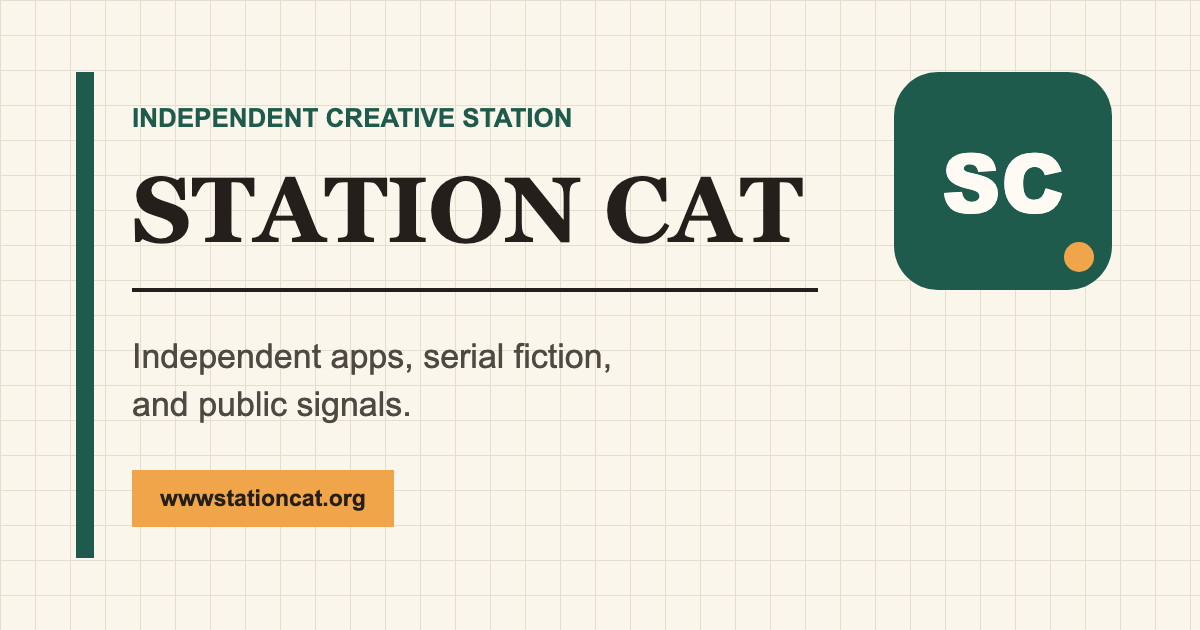
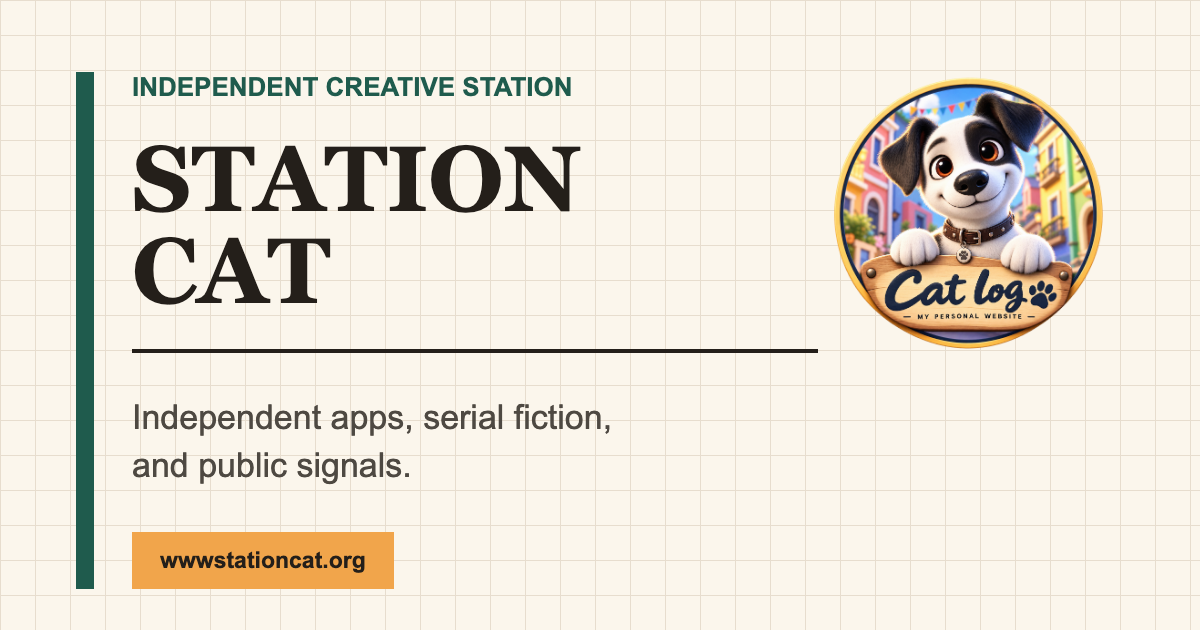
Update Station Cat brand identity

diff --git a/src/worker.js b/src/worker.js
@@ -19311,6 +19311,7 @@ const dynamicLibraryPathForLocale = (locale) =>
       : locale === 'zh-Hans'
         ? '/zh-hans/library/'
         : '/zh-hant/library/';
+const STATION_X_URL = 'https://x.com/statiocat';
 
 const absoluteStationUrl = (path) => {
   const value = cleanText(path, 1000);
@@ -19344,7 +19345,7 @@ const dynamicHtmlShell = ({ body, canonicalPath, description, lang, ogImage = ''
             <a href="${escapeHtml(appsPath)}">${escapeHtml(navCopy.apps)}</a>
             <a href="${escapeHtml(libraryPath)}">${escapeHtml(navCopy.member)}</a>
             <a href="/about/">About</a>
-            <a class="signal-station-nav__x" href="https://x.com/bketck">↗ X</a>
+            <a class="signal-station-nav__x" href="${STATION_X_URL}">↗ X</a>
           </nav>
         </div>
       </header>`
@@ -19356,7 +19357,7 @@ const dynamicHtmlShell = ({ body, canonicalPath, description, lang, ogImage = ''
           <a href="${escapeHtml(appsPath)}">${escapeHtml(navCopy.apps)}</a>
           <a href="${escapeHtml(libraryPath)}">${escapeHtml(navCopy.member)}</a>
           <a href="/about/">About</a>
-          <a href="https://x.com/bketck">Follow on X</a>
+          <a href="${STATION_X_URL}">Follow on X</a>
         </nav>
       </header>`;
   const signalFooter = isSignalPage
@@ -19399,7 +19400,8 @@ const dynamicHtmlShell = ({ body, canonicalPath, description, lang, ogImage = ''
     ${ogImageUrl ? `<meta name="twitter:image" content="${escapeHtml(ogImageUrl)}">` : ''}
     ${ogImageUrl ? `<meta name="twitter:image:src" content="${escapeHtml(ogImageUrl)}">` : ''}
     ${ogImageUrl ? `<meta name="twitter:image:alt" content="${escapeHtml(title)}">` : ''}
-    <link rel="icon" href="/favicon.svg" type="image/svg+xml">
+    <link rel="icon" href="/favicon.ico" sizes="any">
+    <link rel="icon" href="/favicon-64.png" type="image/png" sizes="64x64">
     ${structuredDataScripts}
     <style>
       :root { color-scheme: light; --bg: #fffaf4; --surface: #ffffff; --soft: #f5efe7; --ink: #1f2d29; --muted: #64736d; --line: #e4dbd0; --teal: #08796d; --coral: #d95d45; }

diff --git a/src/data/navigation.ts b/src/data/navigation.ts
@@ -1,3 +1,5 @@
+import { siteConfig } from './site';
+
 export const brandNavigation = [
   { label: 'Apps', href: '/en/apps/' },
   { label: 'Game', href: '/en/apps/cat-life-game/' },
@@ -6,7 +8,7 @@ export const brandNavigation = [
   { label: 'Signal', href: '/en/signal/' },
   { label: 'Member Login', href: '/en/library/' },
   { label: 'About', href: '/about/', mobileHidden: true },
-  { label: 'Follow on X', href: 'https://x.com/bketck', mobileHidden: true }
+  { label: 'Follow on X', href: siteConfig.xUrl, mobileHidden: true }
 ];
 
 export const zhBrandNavigation = [
@@ -17,7 +19,7 @@ export const zhBrandNavigation = [
   { label: '信號簡報', href: '/signal/' },
   { label: '會員登入', href: '/zh-hant/library/' },
   { label: 'About', href: '/about/', mobileHidden: true },
-  { label: 'Follow on X', href: 'https://x.com/bketck', mobileHidden: true }
+  { label: 'Follow on X', href: siteConfig.xUrl, mobileHidden: true }
 ];
 
 export const zhHansBrandNavigation = [
@@ -28,7 +30,7 @@ export const zhHansBrandNavigation = [
   { label: '信号简报', href: '/zh-hans/signal/' },
   { label: '会员登录', href: '/zh-hans/library/' },
   { label: 'About', href: '/about/', mobileHidden: true },
-  { label: 'Follow on X', href: 'https://x.com/bketck', mobileHidden: true }
+  { label: 'Follow on X', href: siteConfig.xUrl, mobileHidden: true }
 ];
 
 export const jaBrandNavigation = [
@@ -39,7 +41,7 @@ export const jaBrandNavigation = [
   { label: 'Signal', href: '/ja/signal/' },
   { label: '会員ログイン', href: '/ja/library/' },
   { label: 'About', href: '/about/', mobileHidden: true },
-  { label: 'Follow on X', href: 'https://x.com/bketck', mobileHidden: true }
+  { label: 'Follow on X', href: siteConfig.xUrl, mobileHidden: true }
 ];
 
 export const productNavigation = [

diff --git a/scripts/assets/station-cat-og.html b/scripts/assets/station-cat-og.html
@@ -19,7 +19,7 @@
       main {
         align-items: center;
         display: grid;
-        grid-template-columns: 18px minmax(0, 1fr) 218px;
+        grid-template-columns: 18px minmax(0, 1fr) 286px;
         gap: 38px;
         height: 100%;
         padding: 72px 88px 72px 76px;
@@ -30,16 +30,7 @@
       .rule { background: #241f1a; height: 4px; margin: 32px 0 40px; width: 686px; }
       .description { color: #4e4942; font-size: 34px; line-height: 1.42; margin: 0; }
       .url { background: #f1a54b; display: inline-block; font-size: 23px; font-weight: 700; margin-top: 42px; padding: 15px 28px; }
-      .mark {
-        align-self: start;
-        background: #1f5b4d;
-        border-radius: 44px;
-        height: 218px;
-        position: relative;
-        width: 218px;
-      }
-      .mark::after { background: #f1a54b; border-radius: 50%; bottom: 18px; content: ''; height: 30px; position: absolute; right: 18px; width: 30px; }
-      .letters { color: #fffaf4; display: flex; font-family: Arial Black, Arial, sans-serif; font-size: 82px; font-weight: 900; gap: 4px; justify-content: center; line-height: 218px; }
+      .mark { align-self: start; display: block; height: 286px; object-fit: contain; width: 286px; }
     </style>
   </head>
   <body>
@@ -52,7 +43,7 @@
         <p class="description">Independent apps, serial fiction,<br>and public signals.</p>
         <div class="url">wwwstationcat.org</div>
       </section>
-      <div class="mark" aria-hidden="true"><span class="letters">SC</span></div>
+      <img class="mark" src="./station-cat-logo.png" alt="">
     </main>
   </body>
 </html>

diff --git a/src/styles/global.css b/src/styles/global.css
@@ -2136,7 +2136,15 @@ ol {
   font-size: 13px;
   height: 34px;
   justify-content: center;
+  overflow: hidden;
   width: 34px;
+}
+
+.brand-icon img {
+  display: block;
+  height: 100%;
+  object-fit: contain;
+  width: 100%;
 }
 
 .nav-links,
@@ -5460,7 +5468,7 @@ button.button {
 }
 
 .station-logo-lockup img {
-  background: #221b16;
+  background: transparent;
   border: 2px solid #221b16;
   border-radius: 50%;
   height: 88px;
@@ -8654,6 +8662,10 @@ body.station-paper-page.caption-product-page {
   box-shadow: 0 8px 20px rgba(121, 51, 79, 0.16);
   color: transparent;
   font-size: 0;
+}
+
+.station-paper-page.caption-product-page .brand-icon img {
+  opacity: 0;
 }
 
 .station-paper-page.caption-product-page .nav-links {

diff --git a/public/games/cat-life/index.html b/public/games/cat-life/index.html
@@ -6,7 +6,8 @@
     <meta name="robots" content="noindex, nofollow" />
     <meta name="theme-color" content="#fbf3e4" />
     <title>打工养猫日记</title>
-    <link rel="icon" href="/favicon.svg" type="image/svg+xml" />
+    <link rel="icon" href="/favicon.ico" sizes="any" />
+    <link rel="icon" href="/favicon-64.png" type="image/png" sizes="64x64" />
     <link rel="stylesheet" href="./src/styles/reset.css" />
     <link rel="stylesheet" href="./src/styles/layout.css" />
     <link rel="stylesheet" href="./src/styles/main.css" />

diff --git a/src/data/site.ts b/src/data/site.ts
@@ -4,6 +4,7 @@ export const siteConfig = {
   baseUrl: 'https://wwwstationcat.org',
   defaultLocale: 'zh-Hant',
   supportEmail: 'brodstem@protonmail.com',
+  xUrl: 'https://x.com/statiocat',
   ogImage: '/images/social/station-cat-og.png',
   description:
     'A small creative station for cats, meals, AI tools, and curious ideas.'

diff --git a/docs/site-foundation-release-checklist.md b/docs/site-foundation-release-checklist.md
@@ -37,7 +37,7 @@ References:
 - Unauthenticated `/admin`, `/admin/`, `/admin-v2`, and `/admin-v2/` requests are intercepted by Cloudflare Access before any admin HTML is returned.
 - An unknown navigation URL returns a branded `404` page with a non-empty body.
 - Unknown `/en/`, `/ja/`, `/zh-hans/`, and `/zh-hant/` URLs return the matching localized 404 copy.
-- `/favicon.ico`, `/favicon.svg`, and `/apple-touch-icon.png` return `200`.
+- `/favicon.ico`, `/favicon-64.png`, and `/apple-touch-icon.png` return `200`.
 - Static and dynamic HTML responses include `X-Content-Type-Options`, `Referrer-Policy`, and framing protection.
 - The homepage Open Graph image is a `1200x630` PNG and renders in a social-card debugger.
 
